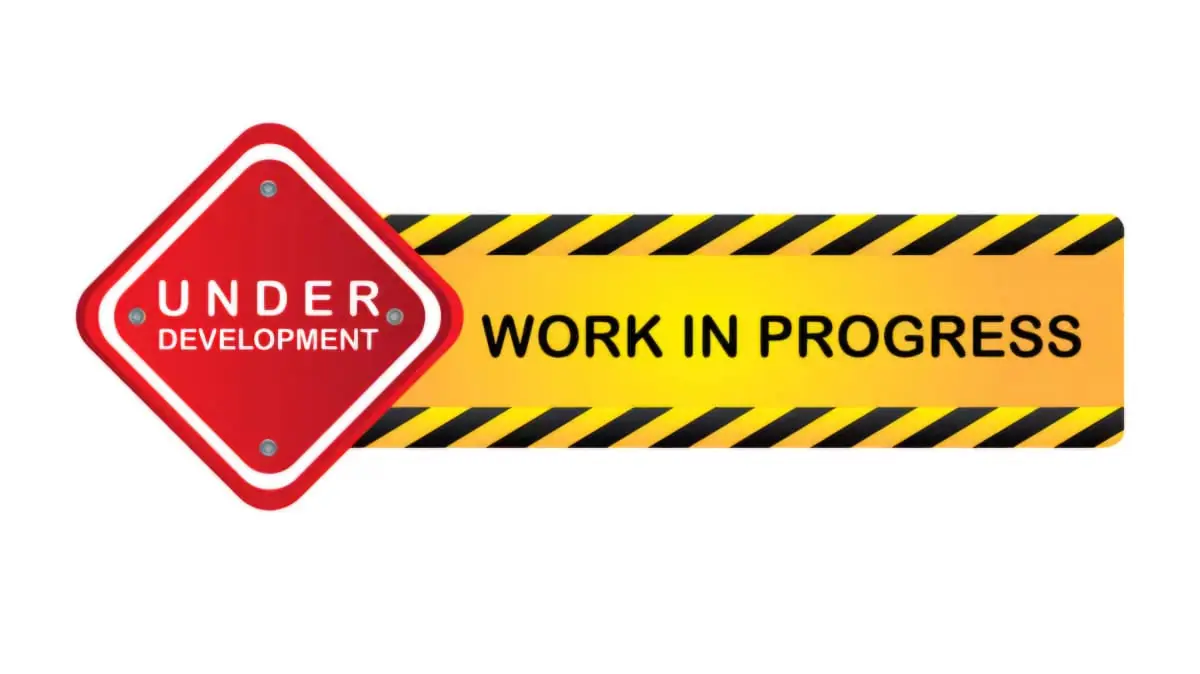
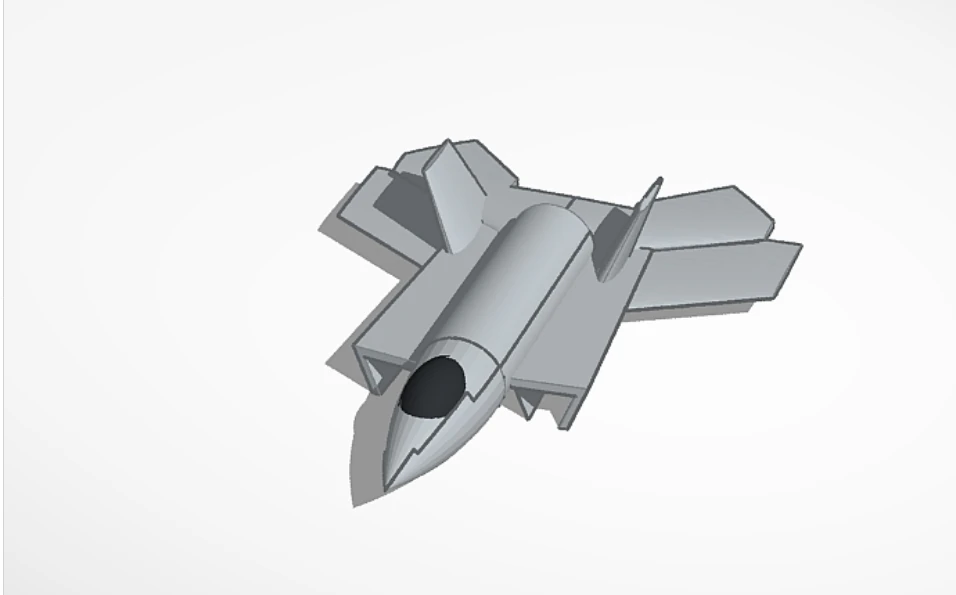
updated

diff --git a/index.html b/index.html
@@ -368,7 +368,7 @@
                             <div class="status-tag status-completed">Completed</div>
                         </div>
                         <figure>
-                            <img src="./assets/project-1.webp" alt="3D Aircraft Model project by Pranav R" class="project-img" loading="lazy"/>
+                            <img src="./assets/project-2.webp" alt="3D Aircraft Model project by Pranav R" class="project-img" loading="lazy"/>
                             <figcaption><h2 class="experience-sub-title project-title">3D Aircraft Model</h2></figcaption>
                         </figure>
                         <p>Designed a detailed 3D aircraft model using TinkerCAD, showcasing skills in 3D modeling and design. Built with TinkerCAD.</p>
@@ -420,7 +420,7 @@
                             <div class="status-tag status-planned">Planned</div>
                         </div>
                         <figure>
-                            <img src="./assets/stay-tuned.webp" alt="Placeholder image for Sentiment Analysis AI project" class="project-img" loading="lazy"/>
+                            <img src="./assets/project-5.webp" alt="Placeholder image for Sentiment Analysis AI project" class="project-img" loading="lazy"/>
                             <figcaption><h2 class="experience-sub-title project-title">Sentiment Analysis AI</h2></figcaption>
                         </figure>
                         <p>A planned machine learning model to perform sentiment analysis on user reviews using NLP techniques.</p>

diff --git a/projects.html b/projects.html
@@ -216,7 +216,7 @@
                             <div class="status-tag status-completed">Completed</div>
                         </div>
                         <figure>
-                            <img src="./assets/project-1.webp" alt="3D model of an aircraft created in TinkerCAD" class="project-img" loading="lazy"/>
+                            <img src="./assets/project-2.webp" alt="3D model of an aircraft created in TinkerCAD" class="project-img" loading="lazy"/>
                             <figcaption><h2 class="experience-sub-title project-title">3D Aircraft Model</h2></figcaption>
                         </figure>
                         <p>This project demonstrates skills in 3D modeling, spatial reasoning, and attention to detail through the creation of a complex aircraft model.</p>